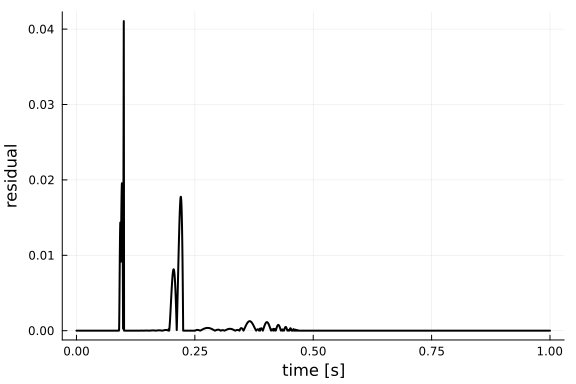
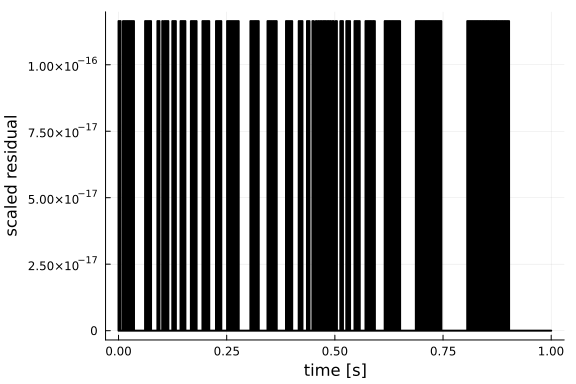
v0.8.0

diff --git a/README.md b/README.md
@@ -44,15 +44,14 @@ plot(res; yscale=:identity)
 
 
 
-We can convert this to a single number by taking the `maximum` of the `norm`.
+We can convert this to a single number by taking the `maximum` of the `scaled_norm`.
 
 ```julia
-using LinearAlgebra
-r = maximum(norm(res))
+r = maximum(scaled_norm(res))
 ```
 
 ```
-0.4359462665530558
+0.7202878845463089
 ```
 
 
@@ -63,7 +62,7 @@ When using models in an algrithm, say in a loss function for example, it's a goo
 
 ```julia
 residual_limit = 0.1
-accept_result = (sol.retcode == ReturnCode.Success) && (maximum(norm(residual(sol))) < residual_limit)
+accept_result = (sol.retcode == ReturnCode.Success) && (maximum(scaled_norm(residual(sol))) < residual_limit)
 ```
 
 ```
@@ -79,7 +78,7 @@ If we decrease the step size we should get a better result.  Now we see an accep
 ```julia
 sol = solve(prob, Euler(); dt=0.1, adaptive=false)
 res = residual(sol)
-r = maximum(norm(res)) # 0.05
+r = maximum(scaled_norm(res)) # 0.046
 accept_result = (sol.retcode == ReturnCode.Success) & (r < residual_limit) # true
 plot_with_residual(sol; idxs=x)
 ```
@@ -166,12 +165,12 @@ resids = analysis(prob, Rodas5P())
 :: [83%] analysis step: abstol=1.0e-9, reltol=1.0e-6
 :: [92%] analysis step: abstol=1.0e-9, reltol=1.0e-9
 :: [100%] analysis step: abstol=1.0e-9, reltol=1.0e-12
-                             Summary of Max Residuals
+                         Summary of Max Scaled Residuals
 ┌────────┬────────────────┬─────────────────┬─────────────────┬──────────────────┐
 │ abstol │ reltol = 0.001 │ reltol = 1.0e-6 │ reltol = 1.0e-9 │ reltol = 1.0e-12 │
 ├────────┼────────────────┼─────────────────┼─────────────────┼──────────────────┤
-│  0.001 │           26.6 │            1.05 │           0.395 │            0.364 │
-│ 1.0e-6 │           23.6 │           0.757 │         0.00229 │      * 3.21e-5 * │
+│  0.001 │          0.239 │         0.00535 │         0.00305 │          0.00314 │
+│ 1.0e-6 │          0.208 │         0.00623 │         2.31e-5 │      * 1.39e-7 * │
 │ 1.0e-9 │            N/A │             N/A │             N/A │              N/A │
 └────────┴────────────────┴─────────────────┴─────────────────┴──────────────────┘
 ```
@@ -229,83 +228,6 @@ plot(cpu_timing)
 
 
 
-## Advanced Use
-Note that we have used `@mtkbuild` which runs `structural_simplify()` on the model and reduces the 20 equation system down to 1 equation.  So what if we wanted to see the residual of each of those equations individually?  This might help us determine which equation is causing the model to struggle.  To do this we will use the function `no_simplify()`...
-
-```julia
-using ModelingToolkitTolerances: no_simplify
-
-@named sys = ValveVolume()
-sys = no_simplify(sys)
-
-st = unknowns(sys)
-u0 = st .=> sol(0.0; idxs=st) # <-- create initialization from previous solution
-prob = ODEProblem(sys, u0, (0, 1); build_initializeprob=false)
-sol = solve(prob, Rodas5P()) # <-- using default abstol & reltol
-plot_with_residual(sol; idxs=sys.vol₊port₊p, residual_limit=0.05)
-scatter!(sol.t, sol[sys.vol₊port₊p]; label="solution points")
-```
-
-![](figures/README_14_1.png)
-
-
-
-Here we get a very interesting solution, the adaptive time stepping is working more as expected with default tolerance.  Therefore this shows us that `structural_simplify()` is greatly influencing the solution.  
-
-The residual view has also been added to the plot (with the 2nd positional argument for resdiual scale, 0.05).  What we see here is the combined residual of all 20 equations.  As can be seen the result is much better now, with some increase in residual around the transitions.  If we want to look at the algebraic vs. differential equations, we can do the following...
-
-```julia
-using ModelingToolkitTolerances: ALGEBRAIC, DIFFERENTIAL
-resid = residual(sol)
-p1 = plot(resid, ALGEBRAIC; yscale=:identity)
-p2 = plot(resid, DIFFERENTIAL)
-plot(p1,p2)
-```
-
-![](figures/README_15_1.png)
-
-
-
-As can be seen, all but 1 of the equations are algebraic.  And we can see that roughly one equation contributes to the total error, which is equation 9.  We can plot specific equations with the following...
-
-```julia
-using ModelingToolkitTolerances: ResidualSettings
-
-plot(resid, ResidualSettings(9); yscale=:identity)
-```
-
-![](figures/README_16_1.png)
-
-
-
-We can take a look at the equation...
-
-```julia
-eqs = equations(sys)
-
-eqs[9]
-```
-
-```
-0 ~ -valve₊base₊port_a₊dm(t) + ifelse(valve₊base₊minimum_area < valve₊base₊
-area(t), valve₊base₊area(t), valve₊base₊minimum_area)*ifelse(abs((2valve₊ba
-se₊port_a₊ρ*(valve₊base₊port_a₊p(t) - valve₊base₊port_b₊p(t))) / (0.01ifels
-e(0 < (valve₊base₊port_a₊p(t) - valve₊base₊port_b₊p(t)), valve₊base₊Cd, val
-ve₊base₊Cd_reverse))) >= 1, 0.1(abs((2valve₊base₊port_a₊ρ*(valve₊base₊port_
-a₊p(t) - valve₊base₊port_b₊p(t))) / (0.01ifelse(0 < (valve₊base₊port_a₊p(t)
- - valve₊base₊port_b₊p(t)), valve₊base₊Cd, valve₊base₊Cd_reverse)))^0.5)*si
-gn((2valve₊base₊port_a₊ρ*(valve₊base₊port_a₊p(t) - valve₊base₊port_b₊p(t)))
- / ifelse(0 < (valve₊base₊port_a₊p(t) - valve₊base₊port_b₊p(t)), valve₊base
-₊Cd, valve₊base₊Cd_reverse)), (0.2valve₊base₊port_a₊ρ*(valve₊base₊port_a₊p(
-t) - valve₊base₊port_b₊p(t))) / (0.01ifelse(0 < (valve₊base₊port_a₊p(t) - v
-alve₊base₊port_b₊p(t)), valve₊base₊Cd, valve₊base₊Cd_reverse)))
-```
-
-
-
-
-
-This is the valve equation, which is non-linear and makes sense that this is the biggest contributor to the error.  
 
 # How ModelingToolkitTolerances Works
 The concept of `ModelingToolkitTolerances` is quite simple.  From `ModelingToolkit`, we know the symbolic representation of the equations, therefore we know where the derivatives in the system are.  Using `ForwardDiff` and the `ODESolution` function, we can easily obtain  derivatives numerically.  Pair those 2 things together and it's easy to calculate the residual of all equations in a system.  
@@ -326,7 +248,7 @@ sol = solve(prob, Tsit5())
 plot(sol; idxs=T)
 ```
 
-![](figures/README_18_1.png)
+![](figures/README_14_1.png)
 
 
 
@@ -359,7 +281,7 @@ times = 0:1e-3:10
 plot(times, resf; label="manual")
 ```
 
-![](figures/README_21_1.png)
+![](figures/README_17_1.png)
 
 
 
@@ -370,11 +292,11 @@ res = residual(sol, times)
 plot!(res.t, res.residuals[:,1]; label="ModelingToolkitTolerances")
 ```
 
-![](figures/README_22_1.png)
+![](figures/README_18_1.png)
 
 
 
-Note: calling `plot(info::ResidualInfo, settings::ResidualSettings = SUMMARY)` will plot the `norm` of all requested equations in `settings`.
+Note: calling `plot(info::ResidualInfo, settings::ResidualSettings = SUMMARY)` will plot the `scaled_norm` of all requested equations in `settings`.
 
 Using the `analysis` function we can quickly find a better tolerance setting...
 
@@ -395,13 +317,13 @@ resids = analysis(prob, Tsit5())
 :: [83%] analysis step: abstol=1.0e-9, reltol=1.0e-6
 :: [92%] analysis step: abstol=1.0e-9, reltol=1.0e-9
 :: [100%] analysis step: abstol=1.0e-9, reltol=1.0e-12
-                             Summary of Max Residuals
+                         Summary of Max Scaled Residuals
 ┌────────┬────────────────┬─────────────────┬─────────────────┬──────────────────┐
 │ abstol │ reltol = 0.001 │ reltol = 1.0e-6 │ reltol = 1.0e-9 │ reltol = 1.0e-12 │
 ├────────┼────────────────┼─────────────────┼─────────────────┼──────────────────┤
-│  0.001 │            2.6 │          0.0104 │          0.0068 │          0.00678 │
-│ 1.0e-6 │           2.58 │         0.00224 │         9.14e-6 │          7.32e-6 │
-│ 1.0e-9 │           2.58 │         0.00227 │         2.17e-6 │      * 2.01e-8 * │
+│  0.001 │          0.551 │          0.0022 │         0.00144 │          0.00144 │
+│ 1.0e-6 │          0.547 │        0.000475 │         1.94e-6 │          1.55e-6 │
+│ 1.0e-9 │          0.547 │        0.000481 │         4.61e-7 │      * 4.26e-9 * │
 └────────┴────────────────┴─────────────────┴─────────────────┴──────────────────┘
 ```
 
@@ -411,7 +333,7 @@ resids = analysis(prob, Tsit5())
 plot(resids)
 ```
 
-![](figures/README_24_1.png)
+![](figures/README_20_1.png)
 
 
 
@@ -422,11 +344,54 @@ sol = solve(prob, Tsit5(); reltol=1e-6)
 plot(sol; idxs=T)
 ```
 
-![](figures/README_25_1.png)
+![](figures/README_21_1.png)
 
 
 
 As can be seen, we now have a stable solution, as expected.
+
+## Scaled Residual
+Every equation has its own residual, in its own physical units.  A pressure equation might have a residual in Pa/s, while a flow equation has one in m³/s.  Adding these together with `norm` doesn't make physical sense, and large-valued equations would hide small-valued ones.  Instead, `scaled_norm` turns the residuals into one dimensionless number at each time.  It does this in 3 steps.
+
+**1. Map the residual to a state error.**  The compiled model is in mass-matrix form $M u' = f(u, p, t)$, and the residual is $r = f(u) - M u'$.  To ask "how wrong are the states?", we take one Newton correction of an implicit step of size $dt$:
+
+```math
+\left( \frac{M}{dt} - J \right) \delta u = r, \qquad J = \frac{\partial f}{\partial u}
+```
+
+The Jacobian $J$ is computed with `ForwardDiff` at each time point.  The solved state error $\delta u_j$ has the same units as the unknown $u_j$.  For algebraic equations ($M_{ii} = 0$) this is simply $\delta u = J^{-1} r$.  For differential equations, the $M/dt$ term keeps the system solvable even when $J$ is singular, for example with a pure integrator like `D(x) ~ v`.  As $dt \to 0$, differential rows reduce to $\delta u \approx r \, dt$.
+
+The time scale $dt$ defaults to the spacing of the time points passed to `residual()` (stored in `res.state_error_dt`).  It can be set explicitly with the `state_error_dt` keyword.
+
+**2. Weight each state error the way the ODE solvers do.**
+
+```math
+e_i = \frac{\delta u_i}{\text{abstol}_i + \text{reltol} \, |u_i|}
+```
+
+The defaults are `abstol = 1e-6` and `reltol = 1e-3`, the same as the ODE solver defaults.  So a value of about 1 means the error the residual implies is about as large as the solver's default error tolerance.  Pass `reltol = 1` to get roughly the relative error in each state instead.  `abstol` can also be a vector with one entry per unknown.  This gives each variable its own nominal scale, like Modelica's `nominal` attribute.
+
+**3. Combine the weighted errors.**  The default `p = 2` gives the RMS over the selected unknowns, which matches `DiffEqBase.ODE_DEFAULT_NORM`.  `p = Inf` gives the maximum instead.
+
+For the convection model above there is 1 differential equation, so $M = 1$ and $J = -hA/(m c_p)$.  We can reproduce `scaled_norm` by hand from the `resf` function defined earlier...
+
+```julia
+res = residual(sol, times)  # residual of the current (reltol=1e-6) solution, matching `Tsol`
+dt = res.state_error_dt  # 1e-3, the spacing of `times`
+J = -(h * A) / (m * c_p)
+
+δT(t) = resf(t) / (1/dt - J)
+e(t) = abs(δT(t)) / (1e-6 + 1e-3 * abs(Tsol(t)))
+
+plot(times, e; label="manual", ylabel="scaled residual")
+plot!(res.t, scaled_norm(res); label="scaled_norm", linestyle=:dash)
+```
+
+![](figures/README_22_1.png)
+
+
+
+The scaled residual is what is shown by `plot(res)`, `plot(resids)`, `plot_with_residual()`, `work_precision()` and the `analysis()` summary table.
 
 ## Important Note
 Using `saveat` can affect the quality of the `ForwardDiff.derivative` computed from the `ODESolution`.  Avoid setting this keyword when using `residual()` or `analysis()`.  
@@ -444,6 +409,7 @@ Keyword Arguments (used by `analysis() function`):
   * `abstol`: this simply records the `abstol` that was used to create `sol` object.  Since this information is not recorded in an `ODESolution` object it must be specified explicitly for reference.  Used by `analysis()` function.
   * `reltol`: same as above, but for `reltol`
   * `timing`: this records the corresponding solution time reference.  Used by `analysis()` function.
+  * `state_error_dt`: time scale `dt` used to map residuals to state errors through `(M/dt - J) δu = r`.  Defaults to the spacing of `tms`.  See `scaled_norm()`.
 
 
 
